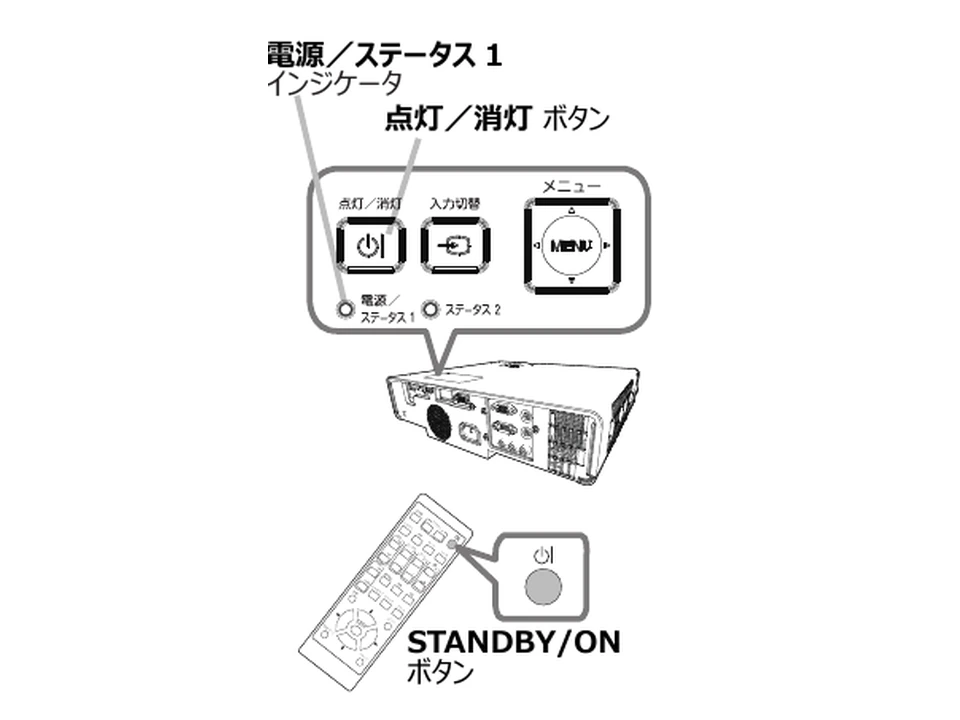
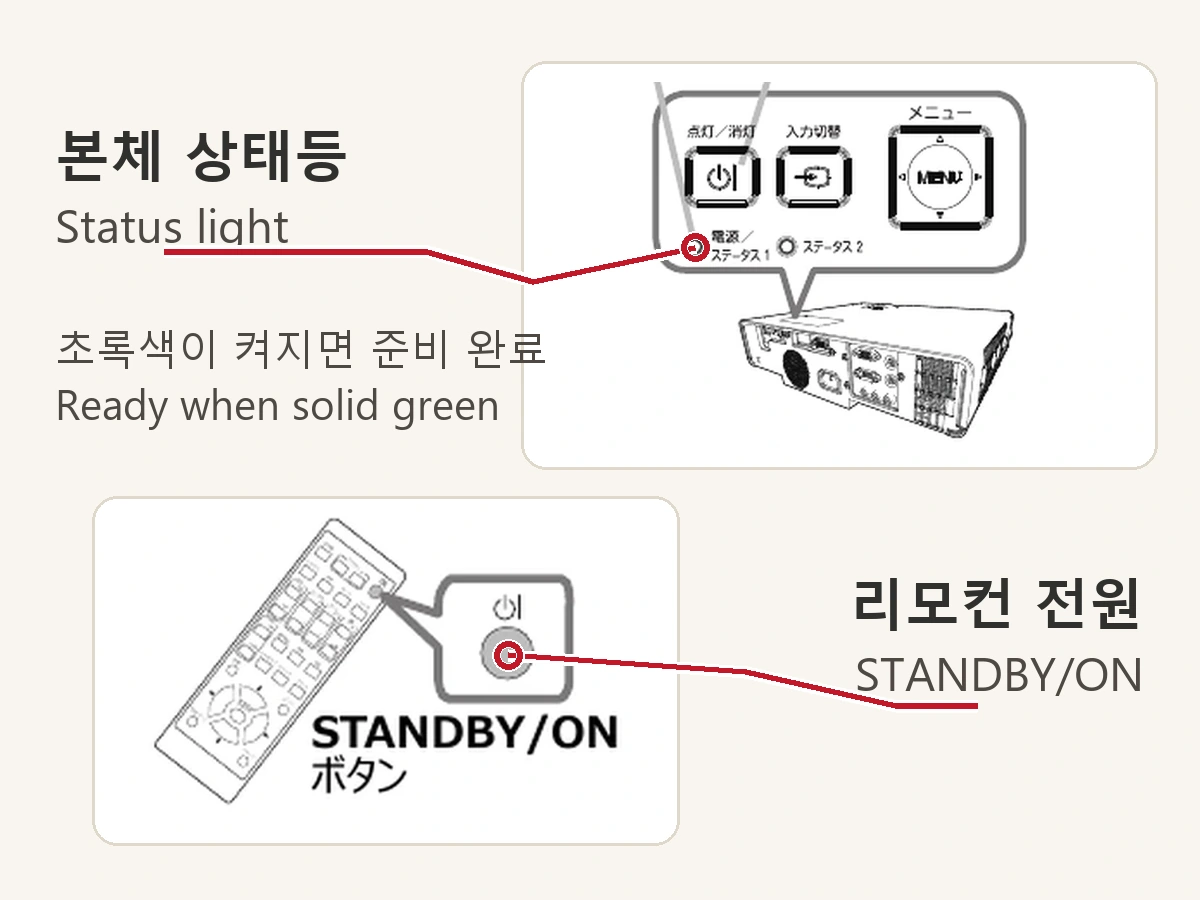
Label cooktop, heating and projector controls directly

diff --git a/assets/app.js b/assets/app.js
@@ -1,5 +1,5 @@
 import { airportAccessPhoto, airportBus, airportGuide, arrival, address, booking, cover, courses, neighborhoodPhotos, nightBus, photoRooms, photos, places, rooms, timetable } from './content.js';
-import { directPanelLabels, panelLabels } from './equipment-labels.js';
+import { directPanelLabels } from './equipment-labels.js';
 import { applianceAreas, helpTopics, matchHelp, normalize } from './guest-tools.js';
 import { label, languages, translate } from './i18n.js';
 import { buildingMaps, faq, guides, parking, wifiNetworks, wifiPasswordNotice } from './operations.js';
@@ -361,22 +361,6 @@ function photoMarkers(marks) {
   return marks.map(([x,y]) => `<span class="device-photo-marker" style="--x:${x}%;--y:${y}%" aria-hidden="true"></span>`).join('');
 }
 
-function panelPins(labels = []) {
-  return labels.map(([, , position],index) => {
-    const [x,y,dx,dy] = position;
-    const length = Math.hypot(dx,dy);
-    const angle = Math.atan2(dy,dx) * 180 / Math.PI;
-    return `<span class="device-panel-pin" style="--x:${x}%;--y:${y}%;--dx:${dx}px;--dy:${dy}px;--lead:${length}px;--angle:${angle}deg" aria-hidden="true">
-      <span class="device-panel-target"></span><span class="device-panel-number">${index + 1}</span>
-    </span>`;
-  }).join('');
-}
-
-function panelKey(labels = []) {
-  return labels.length ? `<ol class="device-panel-key" aria-label="${t('panelButtons')}">${labels.map(([name,english],index) =>
-    `<li><span aria-hidden="true">${index + 1}</span><strong lang="ko">${name}</strong><span lang="en">${english}</span></li>`).join('')}</ol>` : '';
-}
-
 function deviceCarousel(deviceId, title) {
   const slides = deviceSlides.get(deviceId);
   const slideLabel = ({ caption:description, kind, source }) =>
@@ -384,7 +368,7 @@ function deviceCarousel(deviceId, title) {
   return `<figure class="device-carousel" data-device-carousel="${deviceId}" role="group" aria-label="${title} · ${t('deviceVisuals')}">
     <div class="device-track">
       ${slides.map((slide,index) => `<button type="button" class="device-frame" data-action="device-photo" data-value="${index}" data-caption="${slideLabel(slide)}" aria-label="${t('enlarge')} · ${slideLabel(slide)}"${directPanelLabels[slide.id] ? ` aria-description="${directPanelLabels[slide.id]}"` : ''}${index ? ' tabindex="-1"' : ''}>
-        ${image(slide.id,'','')}${photoMarkers(slide.marks ?? [])}${panelPins(panelLabels[slide.id])}<span class="device-photo-expand">${icon('expand')}</span>
+        ${image(slide.id,'','')}${photoMarkers(slide.marks ?? [])}<span class="device-photo-expand">${icon('expand')}</span>
       </button>`).join('')}
     </div>
     <div class="device-carousel-controls">
@@ -392,7 +376,7 @@ function deviceCarousel(deviceId, title) {
       <span><span>${t('swipePhotos')}</span><span class="device-counter" aria-live="polite">1 / ${slides.length}</span></span>
       ${iconAction('device-slide','right',t('next'),'device-slide','1')}
     </div>
-    <figcaption><span class="device-caption">${slideLabel(slides[0])}</span><div class="device-key-wrap">${panelKey(panelLabels[slides[0].id])}</div></figcaption>
+    <figcaption>${slideLabel(slides[0])}</figcaption>
   </figure>`;
 }
 
@@ -429,9 +413,7 @@ function updateDeviceSlide(track) {
   const counterText = `${index + 1} / ${count}`;
   if (!slide || counter.textContent === counterText) return;
   counter.textContent = counterText;
-  const current = deviceSlides.get(carousel.dataset.deviceCarousel)[index];
-  carousel.querySelector('.device-caption').textContent = slide.dataset.caption;
-  carousel.querySelector('.device-key-wrap').innerHTML = panelKey(panelLabels[current.id]);
+  carousel.querySelector('figcaption').textContent = slide.dataset.caption;
   carousel.querySelector('[data-action="device-slide"][data-value="-1"]').setAttribute('aria-disabled',index === 0);
   carousel.querySelector('[data-action="device-slide"][data-value="1"]').setAttribute('aria-disabled',index === count - 1);
   for (const frame of track.children) frame.tabIndex = frame === slide ? 0 : -1;
@@ -644,9 +626,7 @@ function displayPhoto(index) {
   const photo = lightboxPhotos[lightboxIndex];
   lightbox.querySelector('img').src = imagePath(photo.id);
   lightbox.querySelector('img').alt = [photo.alt ?? caption(photo.id), directPanelLabels[photo.id]].filter(Boolean).join(' · ');
-  const labels = panelLabels[photo.id];
-  lightbox.querySelector('.lightbox-markers').innerHTML = photoMarkers(photo.marks ?? []) + panelPins(labels);
-  lightbox.querySelector('.lightbox-key').innerHTML = panelKey(labels);
+  lightbox.querySelector('.lightbox-markers').innerHTML = photoMarkers(photo.marks ?? []);
   const description = lightbox.querySelector('.lightbox-description');
   description.hidden = !photo.description;
   description.textContent = photo.description ?? '';
@@ -658,8 +638,7 @@ function openPhotoViewer(items, selectedIndex = 0) {
   lightbox.innerHTML = `<div class="lightbox-inner" data-swipe="lightbox"><div class="lightbox-head">${iconAction('close-photo','close',t('close'),'icon-button')}</div>
     <figure><div class="lightbox-image"><img alt=""><div class="lightbox-markers" aria-hidden="true"></div></div>
       <figcaption><span class="lightbox-description" hidden></span><span id="photo-count" aria-live="polite"></span></figcaption></figure>
-    <div class="lightbox-controls"${lightboxPhotos.length === 1 ? ' hidden' : ''}>${iconAction('photo-step','left',t('prev'),'icon-button','-1')}${iconAction('photo-step','right',t('next'),'icon-button','1')}</div>
-    <div class="lightbox-key"></div></div>`;
+    <div class="lightbox-controls"${lightboxPhotos.length === 1 ? ' hidden' : ''}>${iconAction('photo-step','left',t('prev'),'icon-button','-1')}${iconAction('photo-step','right',t('next'),'icon-button','1')}</div></div>`;
   displayPhoto(selectedIndex);
   lightbox.showModal();
 }

diff --git a/assets/styles.css b/assets/styles.css
@@ -383,17 +383,6 @@ main[data-page^="guide"] .guide-detail strong { font-weight: 700; }
 .device-frame:focus-visible { outline-offset: -4px; }
 .device-frame img { height: 100%; min-height: 0; object-fit: contain; }
 .device-photo-marker { position: absolute; top: var(--y); left: var(--x); translate: -50% -50%; width: clamp(42px, 12vw, 54px); aspect-ratio: 1; border: 4px solid var(--device-marker); border-radius: 50%; box-shadow: 0 0 0 2px #fff, inset 0 0 0 1px #fff; background: #dc142416; pointer-events: none; }
-.device-panel-pin { position: absolute; top: var(--y); left: var(--x); width: 0; height: 0; color: var(--device-marker); pointer-events: none; }
-.device-panel-pin::before { content: ''; position: absolute; width: var(--lead); height: 2px; left: 0; top: -1px; transform: rotate(var(--angle)); transform-origin: left center; background: currentColor; box-shadow: 0 0 0 1px #fff; }
-.device-panel-target { position: absolute; width: 8px; height: 8px; border-radius: 50%; border: 2px solid currentColor; background: #fff; translate: -50% -50%; }
-.device-panel-number { position: absolute; top: var(--dy); left: var(--dx); translate: -50% -50%; }
-.device-panel-number, .device-panel-key li > span:first-child { display: grid; place-items: center; width: 19px; height: 19px; border-radius: 50%; background: var(--device-marker); color: #fff; font: 700 11px/1 var(--typeface); }
-.device-panel-number { box-shadow: 0 0 0 1.5px #fff; }
-.device-panel-key { display: grid; grid-template-columns: repeat(2, minmax(0, 1fr)); gap: 1px; margin: 8px 0 0; padding: 0; list-style: none; border: 1px solid var(--line); background: var(--line); color: var(--ink); }
-.device-panel-key li { display: grid; grid-template-columns: 19px minmax(0, 1fr); align-content: start; column-gap: 7px; padding: 8px; background: var(--paper); }
-.device-panel-key li > strong { font-size: 13px; line-height: 1.35; word-break: keep-all; overflow-wrap: anywhere; }
-.device-panel-key li > span[lang] { grid-column: 2; font-size: 12px; line-height: 1.35; color: #434343; overflow-wrap: anywhere; }
-.device-panel-key li:only-child { grid-column: 1 / -1; }
 .device-photo-expand { position: absolute; right: 8px; bottom: 8px; display: grid; place-items: center; width: 32px; height: 32px; background: var(--paper); }
 .device-frame[aria-description] .device-photo-expand { right: auto; left: 8px; }
 .device-photo-expand svg { width: 16px; height: 16px; }
@@ -473,7 +462,6 @@ dialog::backdrop { background: #17130e92; }
 .lightbox-markers { position: absolute; inset: 0; pointer-events: none; }
 .lightbox figcaption { margin-top: 9px; text-align: center; font-size: 13px; font-weight: 500; font-variant-numeric: tabular-nums; }
 .lightbox-description { display: block; margin-bottom: 3px; }
-.lightbox-key { width: min(100%, 460px); margin: 0 auto; }
 .lightbox-controls { display: flex; justify-content: center; gap: 13px; margin-top: 6px; }
 .lightbox :focus-visible { outline-color: white; }
 .toast { position: fixed; z-index: 6; bottom: calc(69px + var(--safe)); left: 50%; transform: translateX(-50%); background: var(--ink); color: var(--paper); font-size: 14px; padding: 9px 15px; width: max-content; max-width: 95%; opacity: 0; pointer-events: none; }

diff --git a/assets/equipment-labels.js b/assets/equipment-labels.js
@@ -1,30 +1,9 @@
-// Positions are percentages of each cropped manufacturer diagram. Badge offsets
-// keep the labels beside the controls instead of covering the markings on them.
-export const panelLabels = {
-  'device-official-rinnai-rc610': [
-    ['전원', 'Power', [68.7, 32.8, 16, -12]],
-    ['난방', 'Heating', [33.1, 69.5, -15, -16]],
-    ['난방온도 + / −', 'Heating temperature', [44.5, 63.2, 12, -15]],
-    ['온수', 'Hot water', [69.2, 69.5, 16, -13]],
-  ],
-  'device-official-rinnai-r324': [
-    ['전원', 'Power', [58.2, 34, -10, -17]],
-    ['난방', 'Heating dial', [42.7, 68.9, -3, 19]],
-    ['온수', 'Hot water', [58.3, 69.8, 17, 12]],
-  ],
-  'device-official-maxell': [
-    ['전원 ⏻', 'Standby / On', [56.6, 81.5, 20, -6]],
-    ['전원/상태 1', 'Power / Status 1 light', [36, 42.8, -18, 9]],
-  ],
-  'device-official-induction': [
-    ['전원 ⏻', 'Power', [74.1, 63.2, 18, -10]],
-    ['인덕션 −', 'Lower heat', [59, 63.2, -10, -15]],
-    ['인덕션 +', 'Raise heat', [65.9, 63.2, 1, -16]],
-  ],
-};
-
 // Text alternatives for diagrams that carry their labels in the image.
 export const directPanelLabels = {
+  'device-official-rinnai-rc610': '3층 (3F). 전원 (Power), 난방 (Heating), 난방온도 + / - (Heating temp. + / -), 온수 (Hot water)',
+  'device-official-rinnai-r324': '4층 (4F). 전원 (Power), 난방 (Heating dial), 온수 (Hot water)',
+  'device-official-maxell': '본체 상태등 (Status light). 초록색이 켜지면 준비 완료 (Ready when solid green). 리모컨 전원 (STANDBY/ON)',
+  'device-official-induction': '오른쪽 인덕션 버튼 (Right-side induction controls). 화력 - (Lower heat), 화력 + (Raise heat), 전원 (Power)',
   'device-official-chungho': '온수 (Hot water), 냉수 (Cold water), 정수 (Room-temp. water), 취수 (Dispense)',
   'device-official-cuckoo': '열림 (Turn to open)',
   'device-official-samsung-washer': '전원 (Power), 표준세탁 (Normal wash), 동작/일시정지 (Start / Pause). 길게 눌러 시작 (Hold to start)',

diff --git a/assets/equipment.js b/assets/equipment.js
@@ -27,9 +27,9 @@ export const applianceItems = [
   {
     id:'heating', area:'room',
     visuals:[
-      guide('heating',['바닥난방·온수·전기장판 타이머','Floor heating, hot water and heated-mat timer','床暖房・お湯・電気マットのタイマー','地暖、热水与电热垫定时','地暖、熱水與電熱墊定時']),
       official('rinnai-rc610','Rinnai RC610',['3층 · 난방과 온수 버튼','3F · Heating and hot-water buttons','3階・暖房と給湯ボタン','3 楼 · 暖气与热水按钮','3 樓 · 暖氣與熱水按鈕']),
-      official('rinnai-r324','Rinnai R324',['4층 · 전원과 난방 조절','4F · Power and heating control','4階・電源と暖房調節','4 楼 · 电源与暖气调节','4 樓 · 電源與暖氣調節'])
+      official('rinnai-r324','Rinnai R324',['4층 · 전원과 난방 조절','4F · Power and heating control','4階・電源と暖房調節','4 楼 · 电源与暖气调节','4 樓 · 電源與暖氣調節']),
+      guide('heating',['바닥난방·온수·전기장판 타이머','Floor heating, hot water and heated-mat timer','床暖房・お湯・電気マットのタイマー','地暖、热水与电热垫定时','地暖、熱水與電熱墊定時'])
     ],
     title:['바닥난방·온수·전기장판','Floor heating, hot water and heated mats','床暖房・お湯・電気マット','地暖、热水与电热垫','地暖、熱水與電熱墊'],
     model:'Rinnai · 3F RC610-27KF / 4F R324-25MF',

diff --git a/assets/i18n.js b/assets/i18n.js
@@ -88,7 +88,6 @@ const strings = {
   deviceGuide:['어보드 사용 도해','ABODE illustrated guide','ABODEの操作イラスト','ABODE 使用图解','ABODE 使用圖解'],
   deviceVisuals:['사진과 사용 도해','Photos and illustrated instructions','写真と操作図','照片与操作图','照片與操作圖'],
   swipePhotos:['좌우로 넘기기','Swipe left or right','左右にスワイプ','左右滑动','左右滑動'],
-  panelButtons:['조작부 버튼 이름','Control panel labels','操作パネルのボタン名','控制面板按钮名称','控制面板按鈕名稱'],
   deviceJump:['기기 바로가기','Jump to a device','機器の案内へ','跳转至设备','跳轉至設備'],
   menuOpen:['메뉴 열기','Open menu','メニューを開く','打开菜单','開啟選單'],
   menuClose:['메뉴 닫기','Close menu','メニューを閉じる','关闭菜单','關閉選單'],
